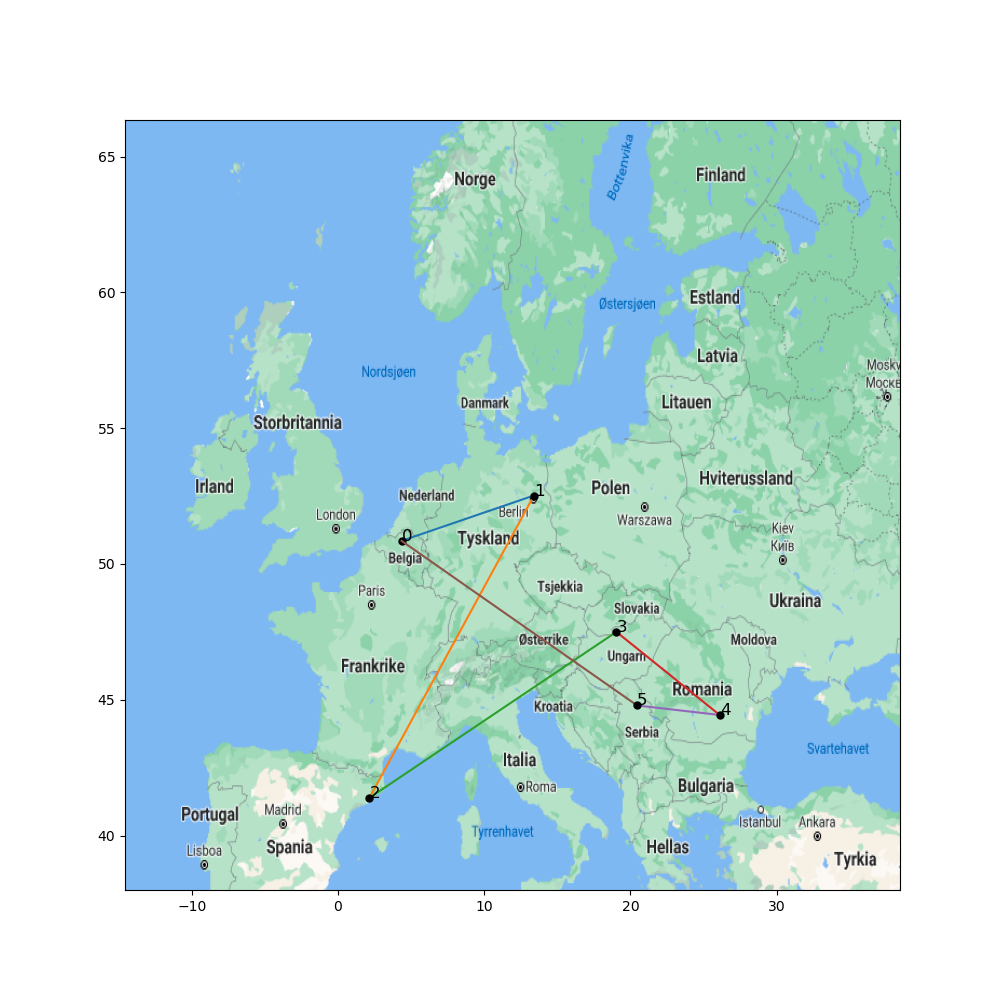
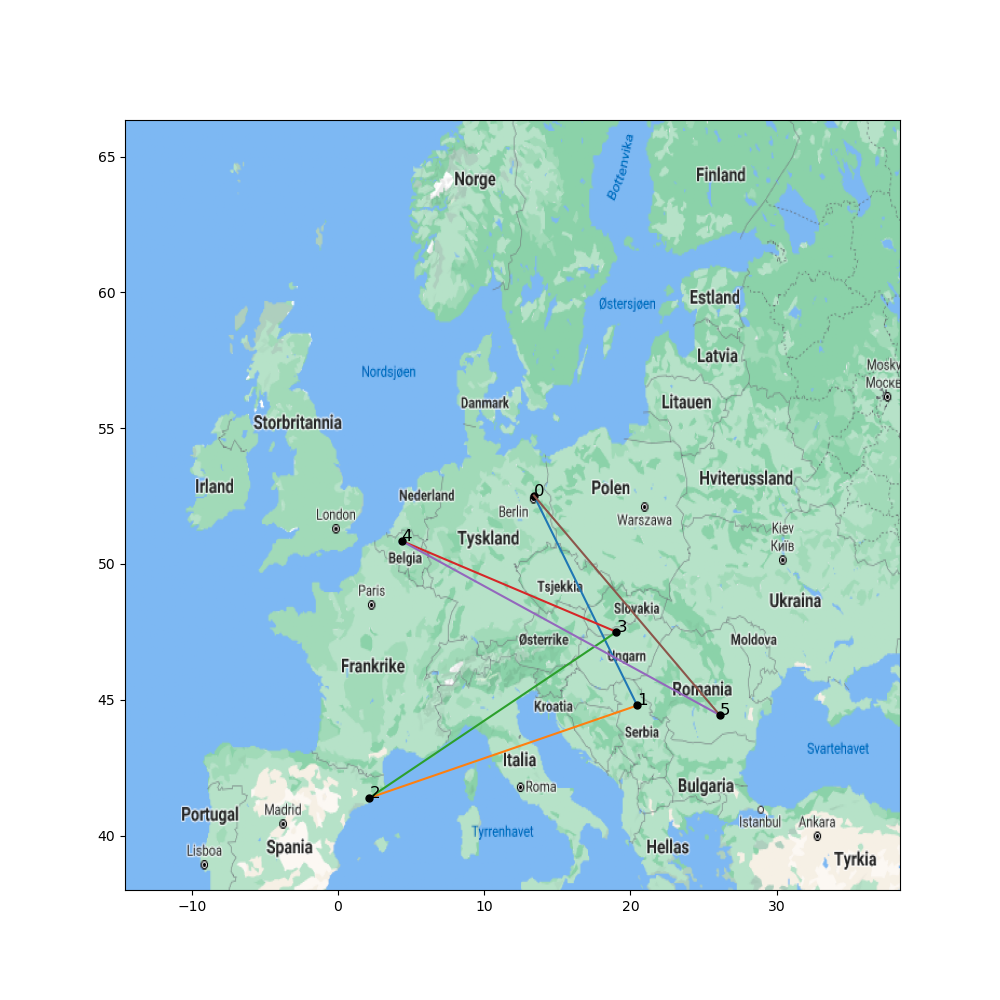
Bad solution genetic algorithm

diff --git a/IN3050/oblig1/genetic_algorithm.py b/IN3050/oblig1/genetic_algorithm.py
@@ -20,14 +20,42 @@ def genetic_algorithm(
     
     i = 0
     while i < num_generations:
-        new_population = list(population.keys())
-        for j, solution in enumerate(new_population):
-            new_population[j] = mutate(solution)
-
+        population = get_next_generation(population, elites)
+        # print(elites)
         i += 1
 
     # first list() casts from type dict_keys, second list() casts from type tuple
     return tuple(list(elites.keys())[0])
+
+
+def get_next_generation(
+    prev_gen: dict[tuple[str, ...], float],
+    elites: dict[tuple[str, ...], float],
+) -> dict[tuple[str, ...], float]:
+    """Decides what the next generation should look like and updates
+       elites in place if a better solution was found
+    """
+    new_gen = dict(prev_gen) # copy the dict
+    for solution in prev_gen:
+        mutated = mutate(solution)
+
+        # Dont calculate fitness if we already have the solution
+        if mutated in new_gen:
+            continue
+
+        mutated_fitness = fitness(mutated)
+        worst_elite = min(elites, key=elites.get)
+        if mutated_fitness > elites[worst_elite]:
+            print(mutated_fitness, worst_elite, elites[worst_elite])
+            elites.pop(worst_elite)
+            elites[mutated] = mutated_fitness
+
+        new_gen[mutated] = mutated_fitness
+
+
+    # Sort by fitness, and return a dict of the first len(prev_gen) values
+    # to keep the population size constant
+    return dict(sorted(new_gen.items(), key=lambda x: x[1])[:len(prev_gen)])
 
 
 def mutate(solution: tuple[str, ...]) -> tuple[str, ...]:
@@ -40,6 +68,6 @@ def mutate(solution: tuple[str, ...]) -> tuple[str, ...]:
 
 
 def crossover(solution1: list[str], solution2: list[str]) -> list[str]:
-    split_index = random.choice(range(len(solution1)))
+    split_index = random.randint(0, len(solution1) - 1)
 
     return [solution1[i] if i < split_index else solution2[i] for i in range(len(solution1))]

diff --git a/IN3050/oblig1/main.py b/IN3050/oblig1/main.py
@@ -83,7 +83,7 @@ def test_hill_climbing() -> None:
 
 
 def test_genetic_algorithm() -> None:
-    algo = partial(genetic_algorithm, population_size=10, num_elites=2, num_generations=10000)
+    algo = partial(genetic_algorithm, population_size=10, num_elites=2, num_generations=100000)
     algo.__name__ = genetic_algorithm.__name__
 
     run_and_plot(algo, SIX_CITIES)
